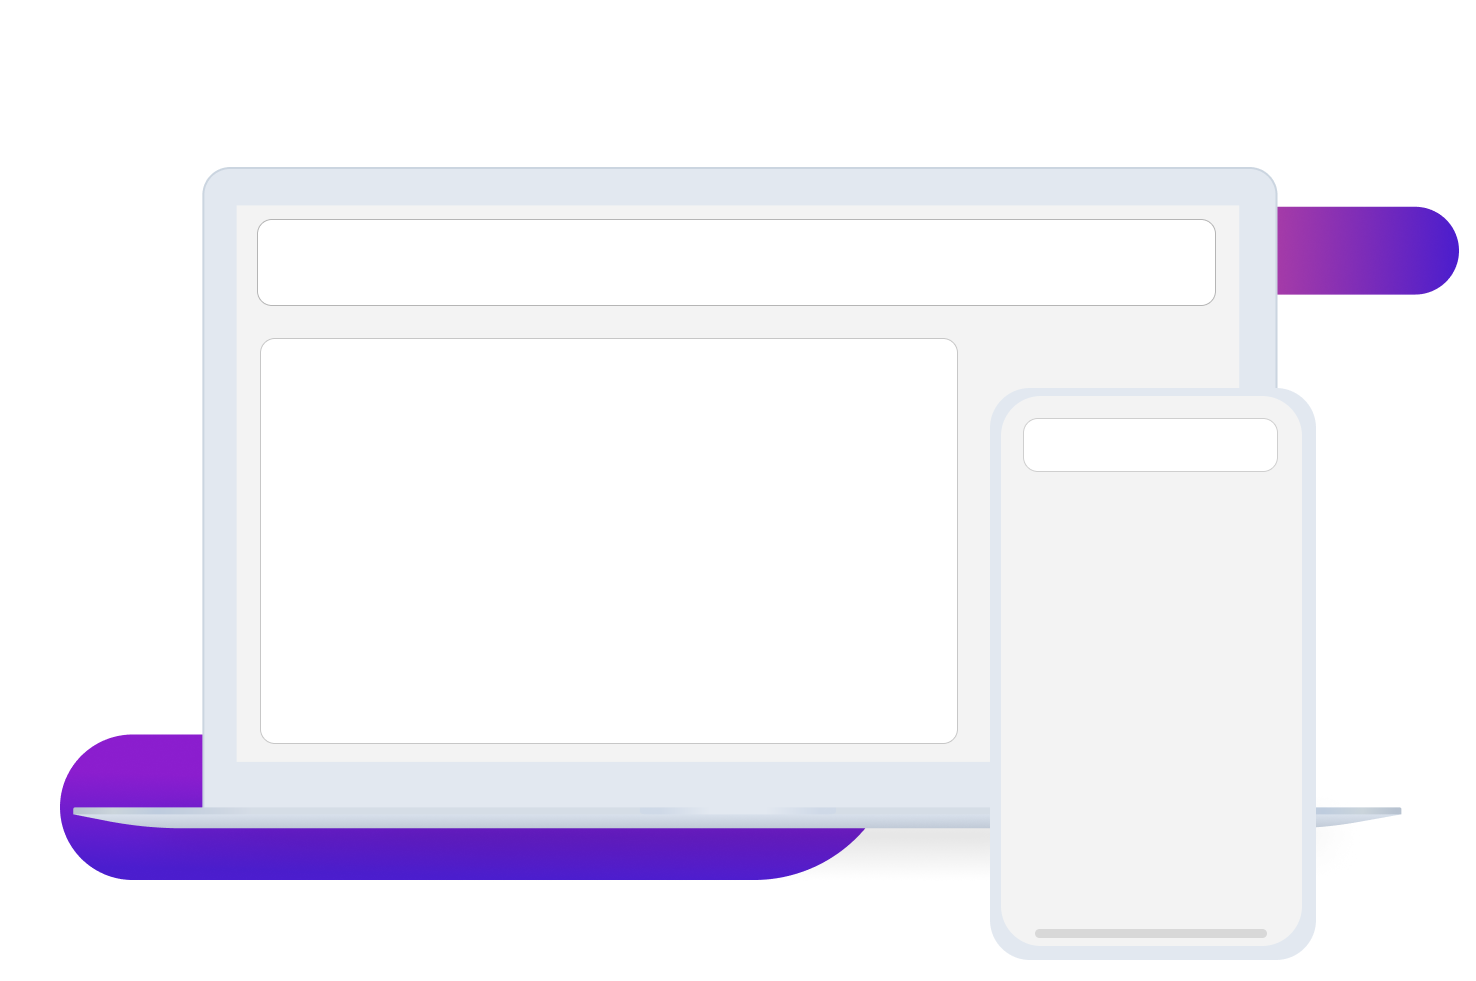
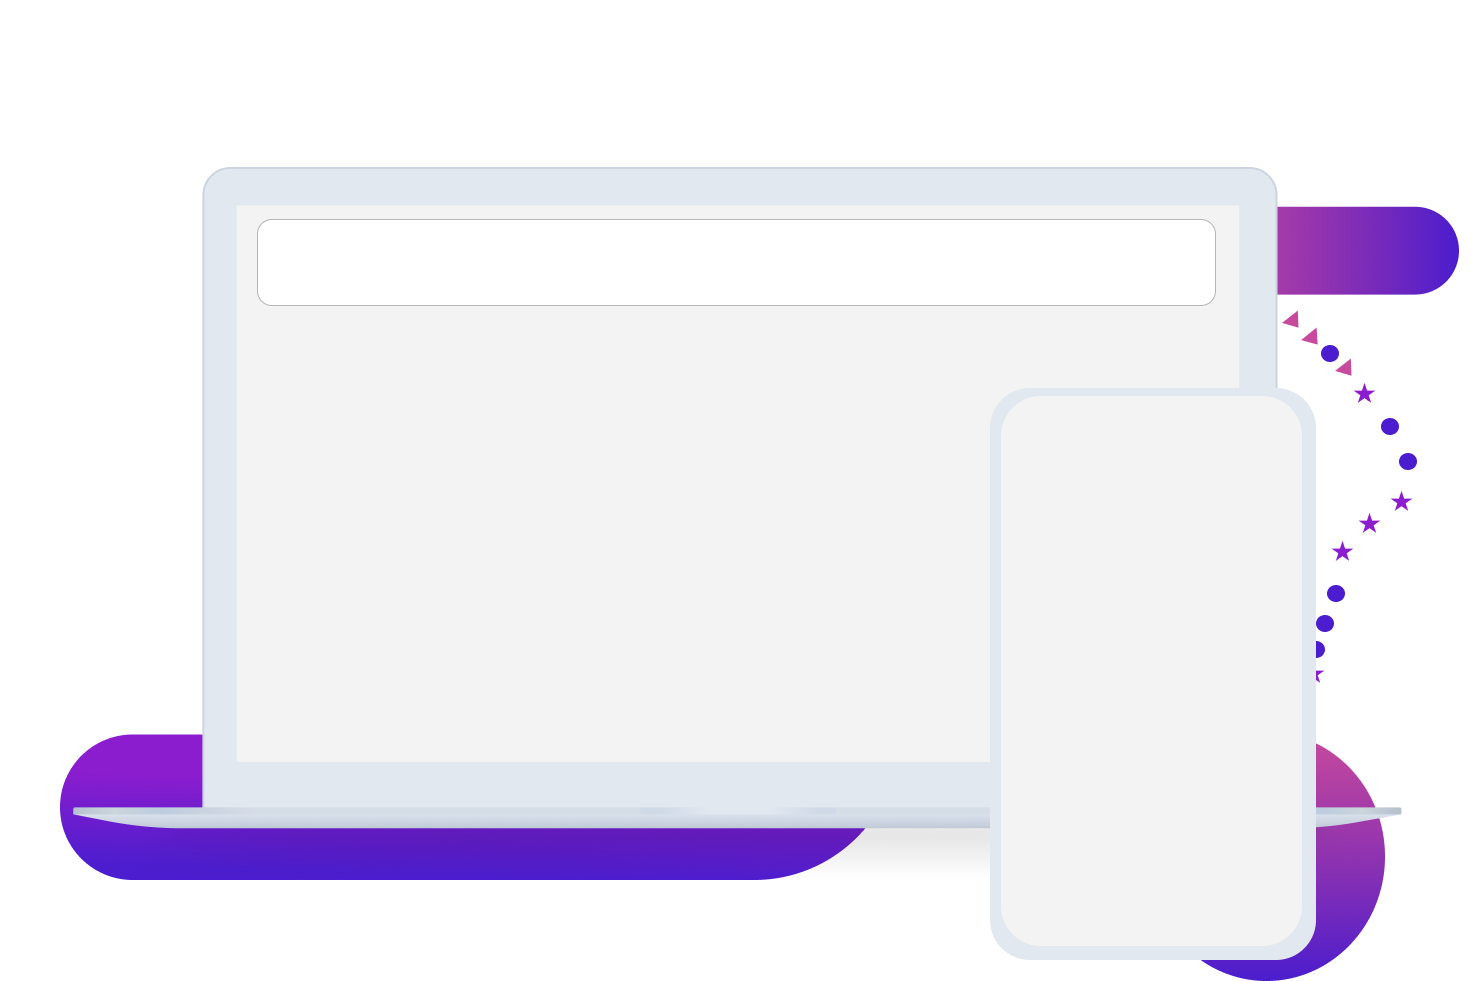
paralaxx object

diff --git a/src/public/css/style.css b/src/public/css/style.css
@@ -304,7 +304,7 @@ border: 2px solid var(--bg-global2), rgba(37, 51, 179, 0.52);
  .publicImage.delete{
 
   text-align: center;
-  transform: translateY(100px);
+  transform: translateY(40px);
   opacity: 0;
   transition: .7s ease-out all;
 
@@ -318,20 +318,102 @@ border: 2px solid var(--bg-global2), rgba(37, 51, 179, 0.52);
   opacity: 1;
 }
 .imgParalaxx {
-
   max-width: 1200px;
   margin:  2rem auto;
-}
-.imagenxll{
+  position: relative;
 
+}
+.content-pkk{
+  
+  max-width: 1200px;
+  margin:  2rem auto;
   position: relative;
 }
-#imagenK{
-
-  position: relative;
+.gallery-image img{
+  
+  width: 100px;
+  z-index: 2000;
+  margin: 0.2em;
+  border-radius: 0.5rem;
 }
-.imgParalaxx.activef{
+.gallery-image{
+  
+  z-index: 2000;
+  position: absolute;
+ 
+  top: 18rem;
+  left: 15rem;
+}
+.galerry{
+  display: flex;
+  justify-content: space-evenly;
+}
+.gallery-image2 img{
+  
+  width: 100px;
+  z-index: 2000;
+  margin: 0.2em;
+  border-radius: 0.5rem;
+}
+.gallery-image2{
+  
+  z-index: 2000;
+  position: absolute;
+  display: flex;
+  justify-content: space-evenly;
+  top: 28.7rem;
+  left: 15rem;
+}
+.gallery-image3 img{
+  width: 100px;
+  z-index: 2000;
+  margin: 0.2em;
+  border-radius: 0.5rem;
+}
+.gallery-image3{
+  position: absolute;
+  top: 25rem;
+  left: 52rem;
+}
+.gallery-image3 .tec{
 
-  position: sticky;
-  top: 0;
+  display: flex;
+}
+.imgParalaxx img{
+  position: relative;
+  opacity: 0;
+  
+}
+.galerry-image4{
+
+  width: 190px;
+  display: flex;
+  justify-content: space-between;
+  position: absolute;
+  top: 22rem;
+  left: 52.5rem;
+}
+.gallery-r .items a{
+
+  margin: 0.10rem;
+  background: linear-gradient(
+    96.15deg,
+    #7e257a 1.3%,
+    #3e08b2 45.16%,
+    #0400be 94.64%
+  );
+  padding: 0.50rem;
+  border-radius: 4rem;
+  color: #fff;
+  text-align: center;
+}
+.gallery-r{
+
+  display: flex;
+  justify-content: space-between;
+  width: 750px;
+  position: absolute;
+  top: 12.8rem;
+  left: 14rem;
+
 }

diff --git a/src/public/js/paralaxx.js b/src/public/js/paralaxx.js
@@ -50,11 +50,12 @@ function observerViews(){
 
 }
 const textParalaxxContent = (entradas, observador)=>{
+
+    
     entradas.forEach(entrada => {
         
         if (entrada.isIntersecting) {
             
-
             entrada.target.classList.add("active")
              entrada.target.classList.remove("delete")
              
@@ -71,17 +72,26 @@ const observerSecond = new IntersectionObserver(textParalaxxContent,{
     root: null,
     rootMargin: "0px 0px 0px 0px",
     threshold: 1.0
-
+    
 })
 observerSecond.observe(TitleParalaxx)
 
 const thirdImage = document.getElementById("thirdImage")
 const observerThirdt = (entradas, observador)=>{
     entradas.forEach((entrada)=>{
-
-        const imagenk = document.getElementById("imagenK")
+        
+        console.log(entradas);
         if (entrada.isIntersecting) {
+            window.onscroll = function(){
+            let  position= window.pageYOffset || document.documentElement.scrollTo;
+            const imagenk = document.querySelector(".imgcount")
+            imagenk.style.opacity = "1";
             
+        }
+        
+    }else{
+            imagenk.style.transform = `translateY(-${position  * 0.1}px)`;
+
         }
     })
     
